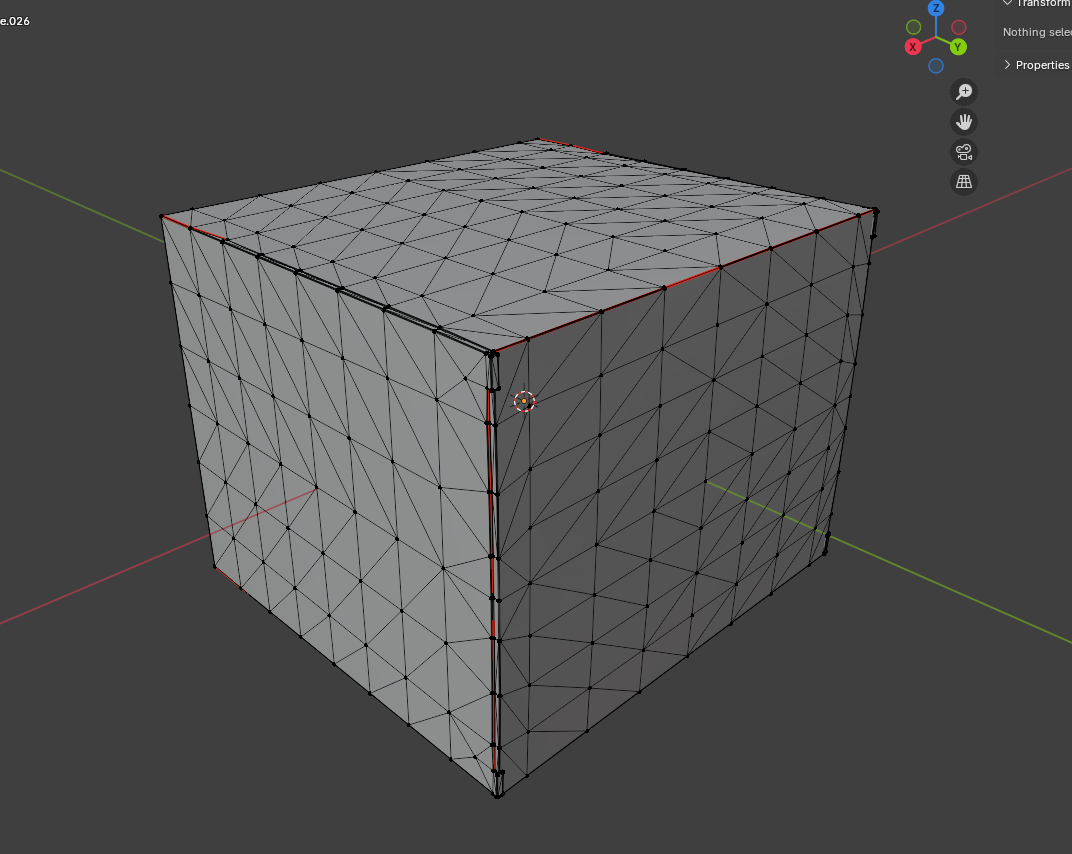
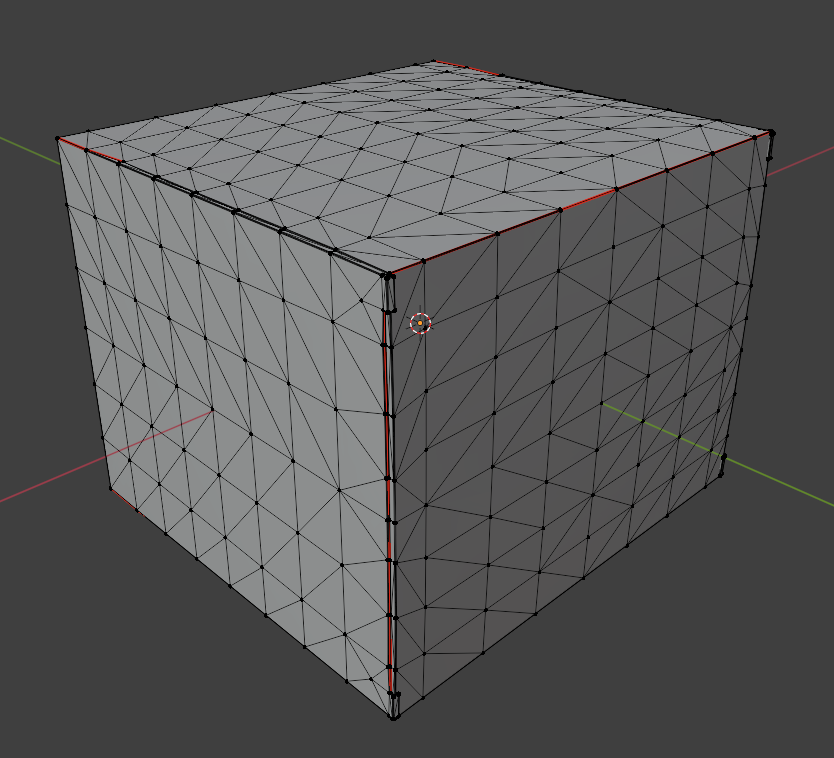
Various Portfolio Changes (v2)

diff --git a/_portfolio/P_Ratshot.md b/_portfolio/P_Ratshot.md
@@ -5,34 +5,36 @@ excerpt: "A breakdown of how I made my ratshot models. <br/><img src='/images/Po
 collection: portfolio
 ---
 
-[comment]: <> (Talk about how it started and how it blew out of control. 50bmg -> all non-shotgun calibers
-50 bmg original meme vs model image
-took 2 months off and on
-restarted multiple times after learning new processes for game model making and texturing.)
+[comment]: <> (Talk about how it started and how it blew out of control. 50bmg -> all non-shotgun calibers 50 bmg original meme vs model image took 2 months off and on restarted multiple times after learning new processes for game model making and texturing.)
 
 The first rat shot mod ([Ratshot of Unusual Size](https://forge.sp-tarkov.com/mod/2487/ratshot-of-unusual-size)) was just for .50 BMG after seeing a meme image of a ratshot variant, 
-but shortly after posting it my 'friends' brought up the idea of making ratshot for all calibers. Two months, 3 blend files, 2 substance files, and dozens of restarts later, I released the final mod [Ratshot of usual size](https://forge.sp-tarkov.com/mod/2561/ratshot-of-usual-size) which I had my friend bushtail publish (so I wouldn't have to maintain the code, lol) <br/>
+but shortly after posting it my 'friends' brought up the idea of making ratshot for all calibers. Two months, 3 blend files, 2 substance files, and dozens of restarts later, I released the final mod [Ratshot of usual size](https://forge.sp-tarkov.com/mod/2561/ratshot-of-usual-size). Which I had my friend [bushtail](bushtail.ca) publish so I wouldn't have to maintain the code, lol. <br/>
 <br/> 
 While there was nothing too worthwhile for modelling the bullet casings, working with the shellshot was certainly a challenge! 
 I quickly realised simulating the pellets into the plastic tips was not going to work so I dipped my toes into geometry nodes, 
 and after _many_ revisions I ended up using this node tree for my final result. <br/>
-<figure>
+<figure style="display: flex; flex-direction: column; align-items: center;">
     <img src='/images/Portfolio Images/P_Ratshot/Old_Geonode_Screenshot.png'
     alt="Geometry Node Image"
     width="400" />
-        <figcaption>Geometry node for pellets</figcaption>
-</figure> <br/>
+        <figcaption style="text-align:center">
+            Geometry node for pellets
+        </figcaption>
+</figure>
 Though to be noted, I recall having to make a different tip mesh, separate of the plastics, for this to fill the tips how I was wanting. <br/>
 After having made the geometry nodes what was left was to simplify the now realised nodes into a game-ready mesh. 
 The process that I ended up following was to use a boolean modifier to merge the mesh into one single object, 
 then using the mesh that the node was generated on as a boolean collider and voiding what the mesh came in contact with, 
 thus making a hollow object. After which, using a decimate modifier until the vertex count dropped to an acceptable amount 
 (I deemed sub 7k my goal on every caliber except for .338 lapua and .50bmg). <br/>
-<figure>
+<figure style="display: flex; flex-direction: column; align-items: center;">
     <img src='/images/Portfolio Images/P_Ratshot/tkm_UV.png'
     alt="UV of the tkm model"
-    width="400">
-        <figcaption>UV Map of 366TKM</figcaption>
+    width="200"
+    >
+        <figcaption style="text-align:center">
+            UV Map of 366TKM
+        </figcaption>
 </figure>
 When making the UVS a hurdle I faced was properly UV-Packing the meshes, but I think the final result is acceptable. 
 Though if there was one thing I could go back and change, I'd properly island the UVS of the spent shell casings. 
@@ -46,33 +48,23 @@ Speaking of, all the ammunition boxes for my mod are to (bullet) scale! See the 
 <figure>
     <img src='/images/Portfolio Images/P_Ratshot/BulletBoxTrueScaleProof.PNG'
     alt="Bullet Box with Patrons"
-    width="400">
-        <figcaption>Ammo pack with bullets for sizing</figcaption>
+    width="400px"> <br/>
+    <div style="display:flex; justify-content:center; gap:10px;">
+        <img src='/images/Portfolio Images/P_Ratshot/BigBoxTemplateB.PNG'
+        alt="Image of the Big Box Template model"
+        width="32%">
+        <img src='/images/Portfolio Images/P_Ratshot/BigBoxTemplateA.PNG'
+        alt="Image of the Big Box Template model with Thumb Holes"
+        width="32%">
+        <img src='/images/Portfolio Images/P_Ratshot/LongBoxTemplate.PNG'
+        alt="Image of the Long Box Template model"
+        width="32%">
+    </div>
+        <figcaption style="text-align:center">
+            Box Templates
+        </figcaption>
 </figure>
-<figure>
-    <img src='/images/Portfolio Images/P_Ratshot/BigBoxTemplateB.PNG'
-    alt="Image of the Big Box Template model"
-    width="400">
-        <figcaption>Big Box Template</figcaption>
-</figure>
-<figure>
-    <img src='/images/Portfolio Images/P_Ratshot/BigBoxTemplateA.PNG'
-    alt="Image of the Big Box Template model with Thumb Holes"
-    width="400">
-        <figcaption>Big Box Template with Thumb Holes</figcaption>
-</figure>
-<figure>
-    <img src='/images/Portfolio Images/P_Ratshot/LongBoxTemplate.PNG'
-    alt="Image of the Long Box Template model"
-    width="400">
-        <figcaption>Long Box Template</figcaption>
-</figure>
-<figure>
-    <img src='/images/Portfolio Images/P_Ratshot/Spreadsheet.png'
-    alt="a Spreadsheet screenshot"
-    width="300">
-        <figcaption>A Screenshot of the spreadsheet I used for organization for this mod.</figcaption>
-</figure>
+
 <br/>
 One last thing I'd like to brag about is that on every box; The Grain is calculated to the estimated projectile weight, and all the bar codes are custom per caliber. Keep an eye out on the boxes ;) <br/>
 <figure>
